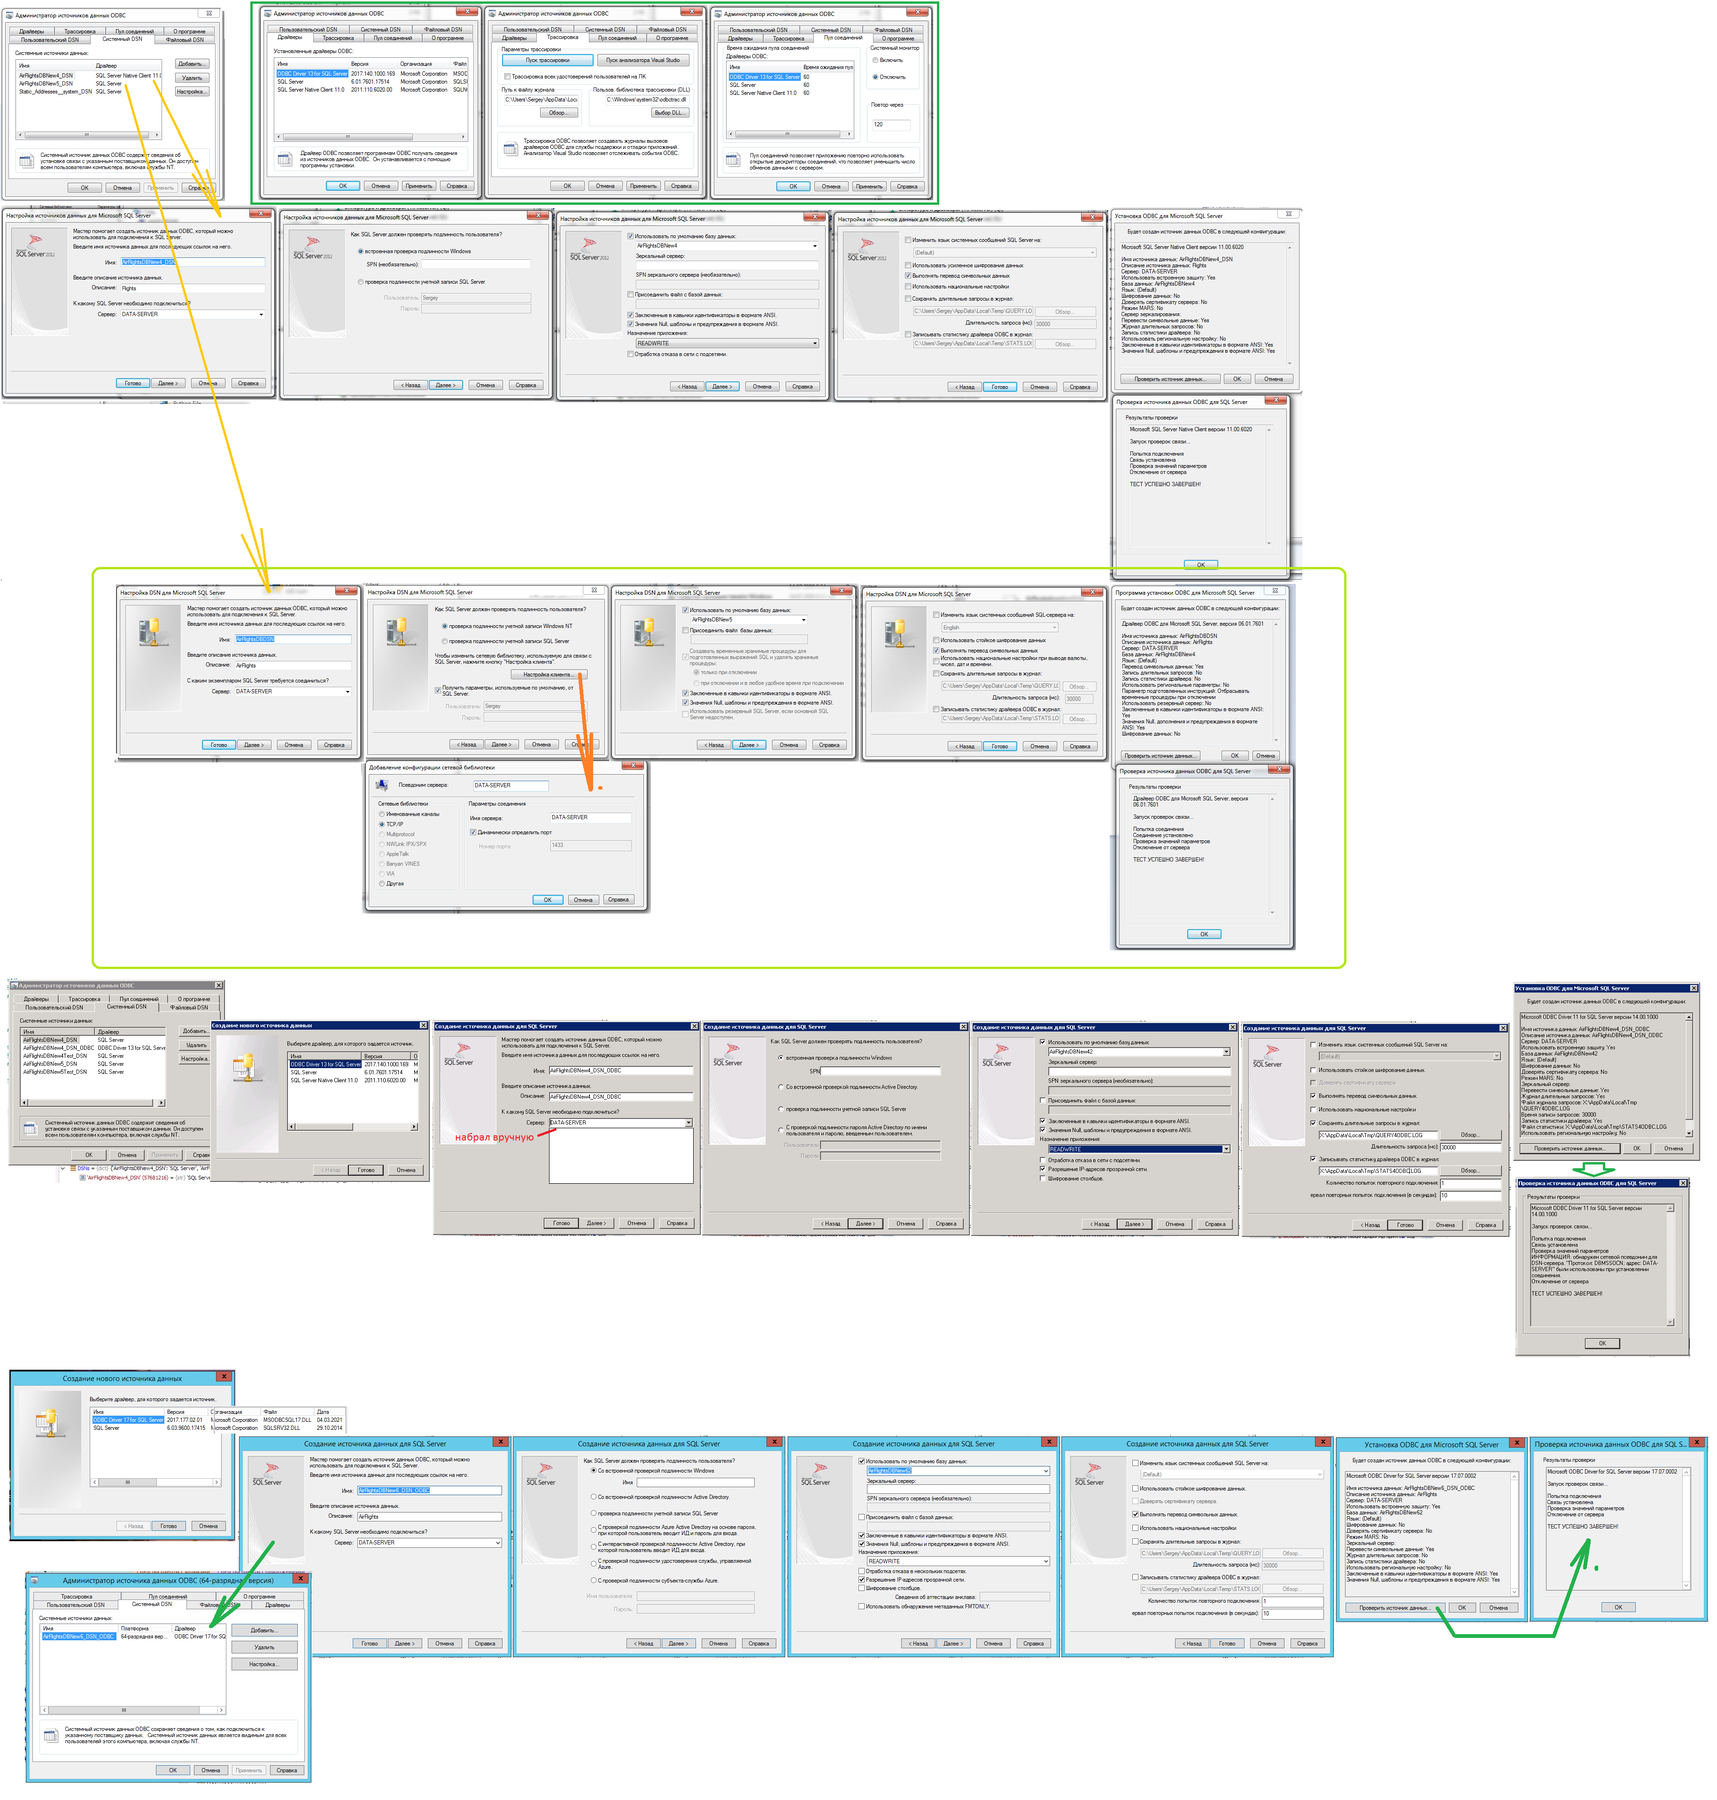
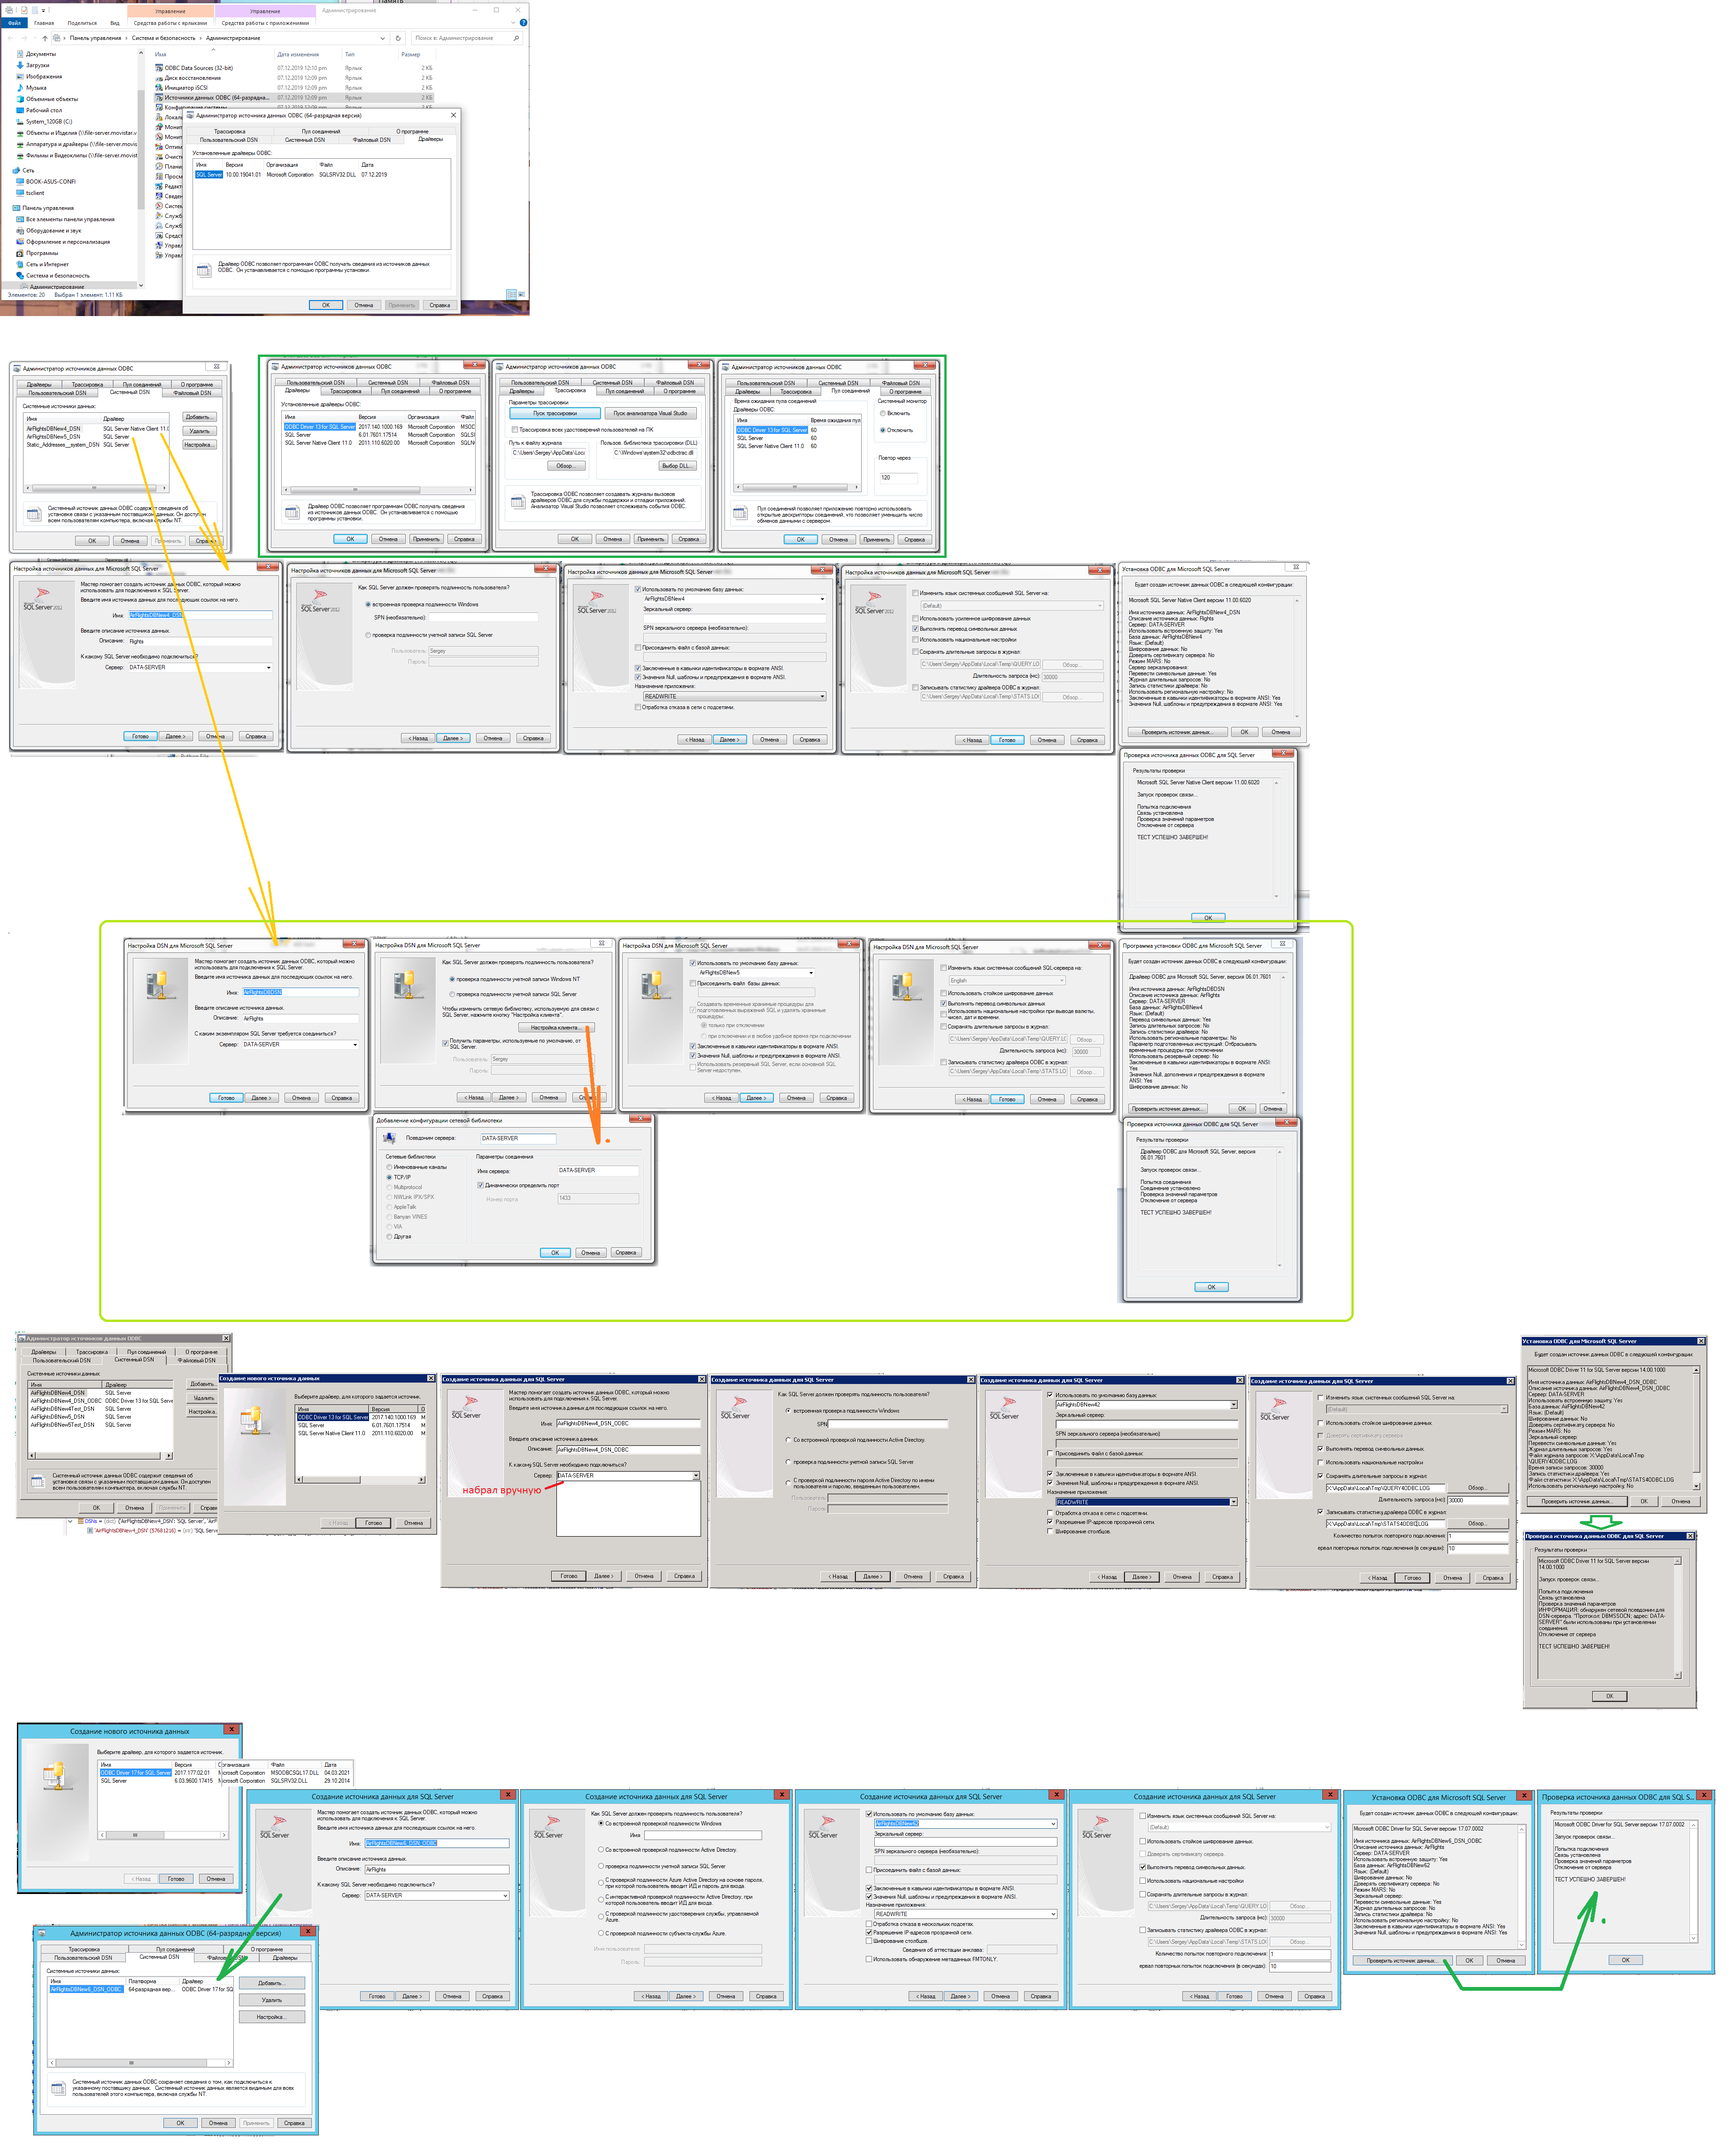
Правки по оформлению 12 мая 2022 года

Changed region(s): [[0.0, 0.0, 0.9978, 0.9937]]

diff --git a/README.md b/README.md
@@ -28,12 +28,13 @@
 Предусматривается:
  - разработка баз данных и администрирование сервера СУБД в Management Studio,
  - работа клиентов на графических формах (UX/UI) только в локальной подсети по учеткам Windows Server-ов без контроллера домена, с заранее заданной конфигурацией сервера СУБД (имена входа, их права) и с ПО в оригинале с файлового сервера, которое дорабатывается в процессе работы (CI/CD) без уведомления клиентов
+ - работа клиентов по RDP из внешней сети
 
 ![93936369_591194488270382_464298759405174784_n](https://user-images.githubusercontent.com/104857185/167257457-d5fc8393-4bdc-4391-a76d-9b2b73490016.jpg "Решение по архитектуре")
 
 ----
 Для обхода попадания на вложенную обработку исключений на клиентах:
- - при необходимости обновить **двайвер ODBC для MSSQL** до версии 17 (дистрибутив и руководство см. в папке "Q:\M$_Windows\SQL_Server\Driver ODBC for SQL Server").
+ - установить или обновить **двайвер ODBC для MSSQL** (дистрибутив версии 17 и руководство см. в папке "Q:\M$_Windows\SQL_Server\Driver ODBC for SQL Server").
  - в источниках данных ODBC настроить **Системный DSN** (см. "Подключение к БД через системный DSN" в папке "..\Руководства в картинках"),
  
 Уход от взаимоблокировок при загрузке рабочих и оперативных данных на сервер СУБД выполнен с помощью обертывания цикла попыток с нарастающей задержкой в обработку исключения, так как сервер СУБД на дает обратные вызовы (хуки или паузы до прерывания) клиентам на повторную попытку, если запрашиваемые данные пока заняты.
